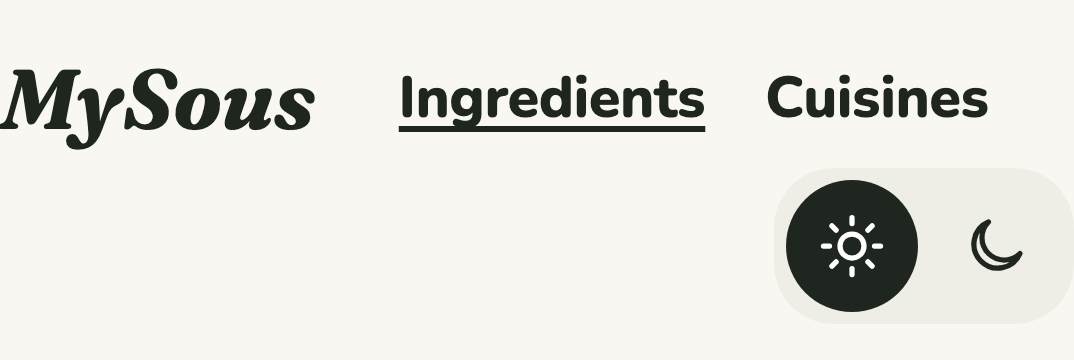
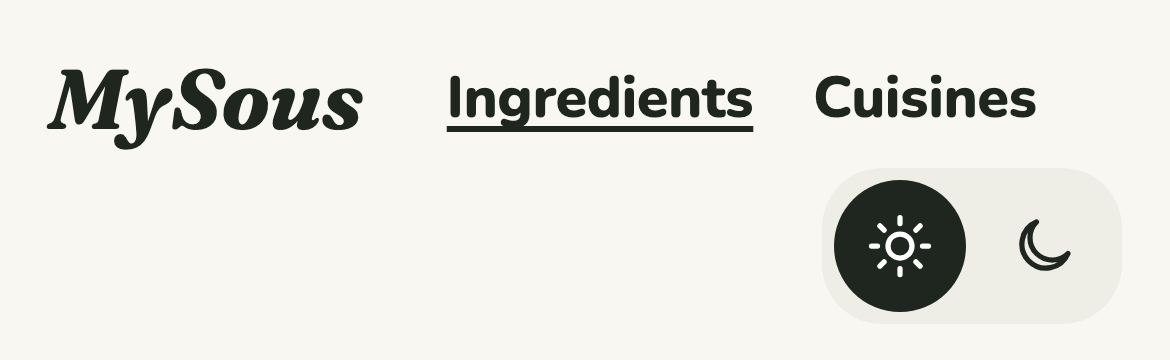
The theme switch sits in the window's top-right corner, wider than a phone (#42)

Changed region(s): [[0.7067, 0.4889, 0.9525, 0.8861], [0.3687, 0.2139, 0.9218, 0.3667], [0.0, 0.1833, 0.3073, 0.4278]]

diff --git a/e2e/theme.spec.ts b/e2e/theme.spec.ts
@@ -84,3 +84,17 @@ test.describe("with the device set to dark", () => {
     expect(await background(page)).toBe(LIGHT);
   });
 });
+
+test("wider than a phone, the switch sits in the window's top-right corner, level with the header", async ({ page, isMobile }) => {
+  test.skip(isMobile, "on a phone it has a row of its own");
+  await page.setViewportSize({ width: 1600, height: 900 });
+  await page.goto("/");
+  const [control, nav] = await Promise.all([
+    theme(page).boundingBox(),
+    page.getByRole("banner").getByRole("navigation").boundingBox(),
+  ]);
+
+  // In the body's 16px gutter from the window's edge, not the page's.
+  expect(Math.round(1600 - (control!.x + control!.width))).toBe(16);
+  expect(Math.abs(control!.y + control!.height / 2 - (nav!.y + nav!.height / 2))).toBeLessThan(4);
+});

diff --git a/src/app/globals.css b/src/app/globals.css
@@ -129,9 +129,21 @@ ul {
   padding-block: var(--space-3);
 }
 
-/* The theme's sun and moon, in the header's far corner. */
+/* The theme's sun and moon, at the end of the header; on a phone, on a row of their own. */
 .site-theme {
   margin-inline-start: auto;
+}
+
+/*
+ * Wider than a phone, in the window's top-right corner rather than the page's: placed against the
+ * window, in the body's gutter, centred on the header's first row.
+ */
+@media (min-width: 32rem) {
+  .site-theme {
+    position: absolute;
+    top: calc(var(--space-3) - var(--space-1));
+    right: var(--space-4);
+  }
 }
 
 /* Ingredients and Cuisines, beside the wordmark; the current one underlined as well as marked. */

diff --git a/docs/journal/0017-theme-switcher.md b/docs/journal/0017-theme-switcher.md
@@ -1,6 +1,6 @@
 # 0017 · Theme switcher
 
-Milestone: #42 (part of #2). MySous has always followed the device's light or dark setting. Now a sun and a moon in the header's top right let the Cook choose, and the choice is remembered.
+Milestone: #42 (part of #2). MySous has always followed the device's light or dark setting. Now a sun and a moon in the window's top-right corner let the Cook choose, and the choice is remembered.
 
 ## Before and after
 
@@ -21,6 +21,8 @@ The author chose each of these from options.
 
 **Its own ticket.** It's on its own branch and PR, separate from imagery (#32), so each can be reviewed and reverted alone.
 
+**In the window's corner, not the page's.** The author asked for it at the far right of the window, not the right of the centred layout. Wider than a phone, it's placed against the window, in the body's 16px gutter, level with the header's first row. On a phone, the window's corner is where the nav is, so it keeps a row of its own at the right.
+
 ## How it works
 
 - **No flash.** A one-line script in the page's head reads the stored choice and sets `data-theme` on the page before it paints, before the app's scripts load. If storage is unavailable (a private window, say), it does nothing and the device's setting applies.
@@ -30,7 +32,7 @@ The author chose each of these from options.
 ## Noticed
 
 - **On a phone, the switch wraps to its own row.** The wordmark, the nav and the switch don't fit across 390 pixels. The switch sits at the right of a second header row, which costs about 50 pixels at the top of every page. Add to basket still clears the docked basket on an Ingredient's page (checked by #32's tests, once merged).
-- **Imagery (#32) styles one thing for dark directly:** it dims images under the device's dark setting. Whichever merges second makes that follow a chosen theme too.
+- **Imagery (#32) merged first.** It dimmed images under the device's dark setting only. The dim is now a theme variable, `--image-filter`, set wherever the dark palette applies, so a chosen Dark dims images too (tested).
 
 ## Tests
 
@@ -39,7 +41,9 @@ The author chose each of these from options.
   - choosing Dark switches the page and an Ingredient's colours, and holds across a link and a reload;
   - choosing Light wins over a dark device, across a reload;
   - with the app's scripts blocked, a stored choice still applies on load, so there's no flash;
-  - arrow keys move the choice.
+  - arrow keys move the choice;
+  - a chosen Dark dims images;
+  - wider than a phone, the switch sits 16px from the window's right edge, level with the header.
 - **axe** runs on every screen with Dark chosen on a light device and Light chosen on a dark one, as well as in both device themes. So does the **focus-ring check**. The tap-target check covers the header's new control.
 - **Vitest:** `themeCss()` gives the dark palette, Ingredient colours included, under the device's dark setting unless Light is chosen, and whenever Dark is.
 
